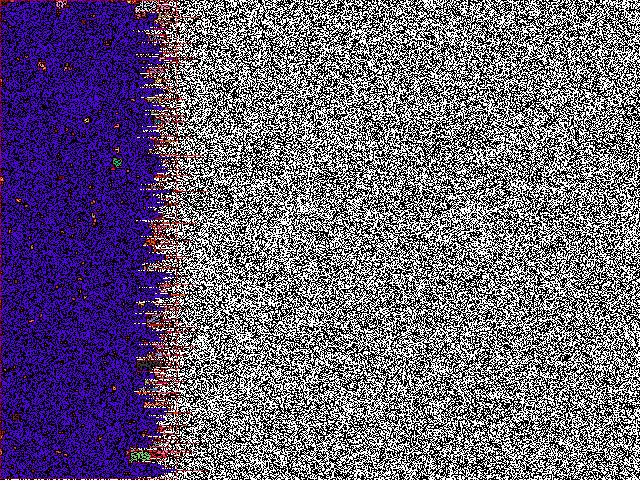
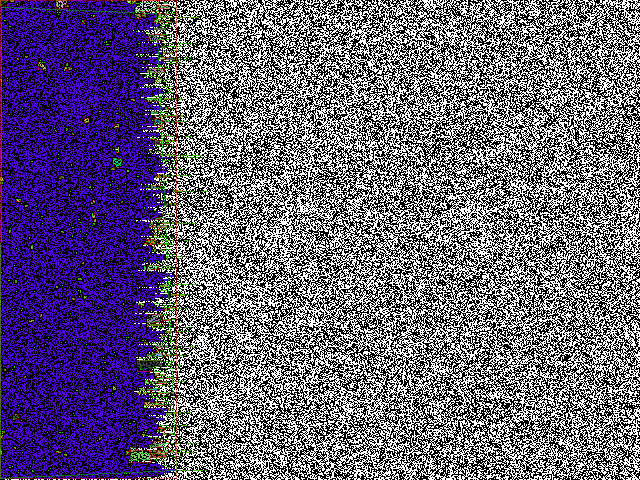
...

diff --git a/Scripting/Config.ts b/Scripting/Config.ts
@@ -6,4 +6,4 @@ export const IMAGE_OUTPUT_PATH = 'out.png';
 export const SINGLE_IMAGE_MODE = true;
 export const DRAW_BLOB_COLOR = true;
 export const DRAW_BOUND = true;
-export const DRAW_QUAD = false;
+export const DRAW_QUAD = true;
